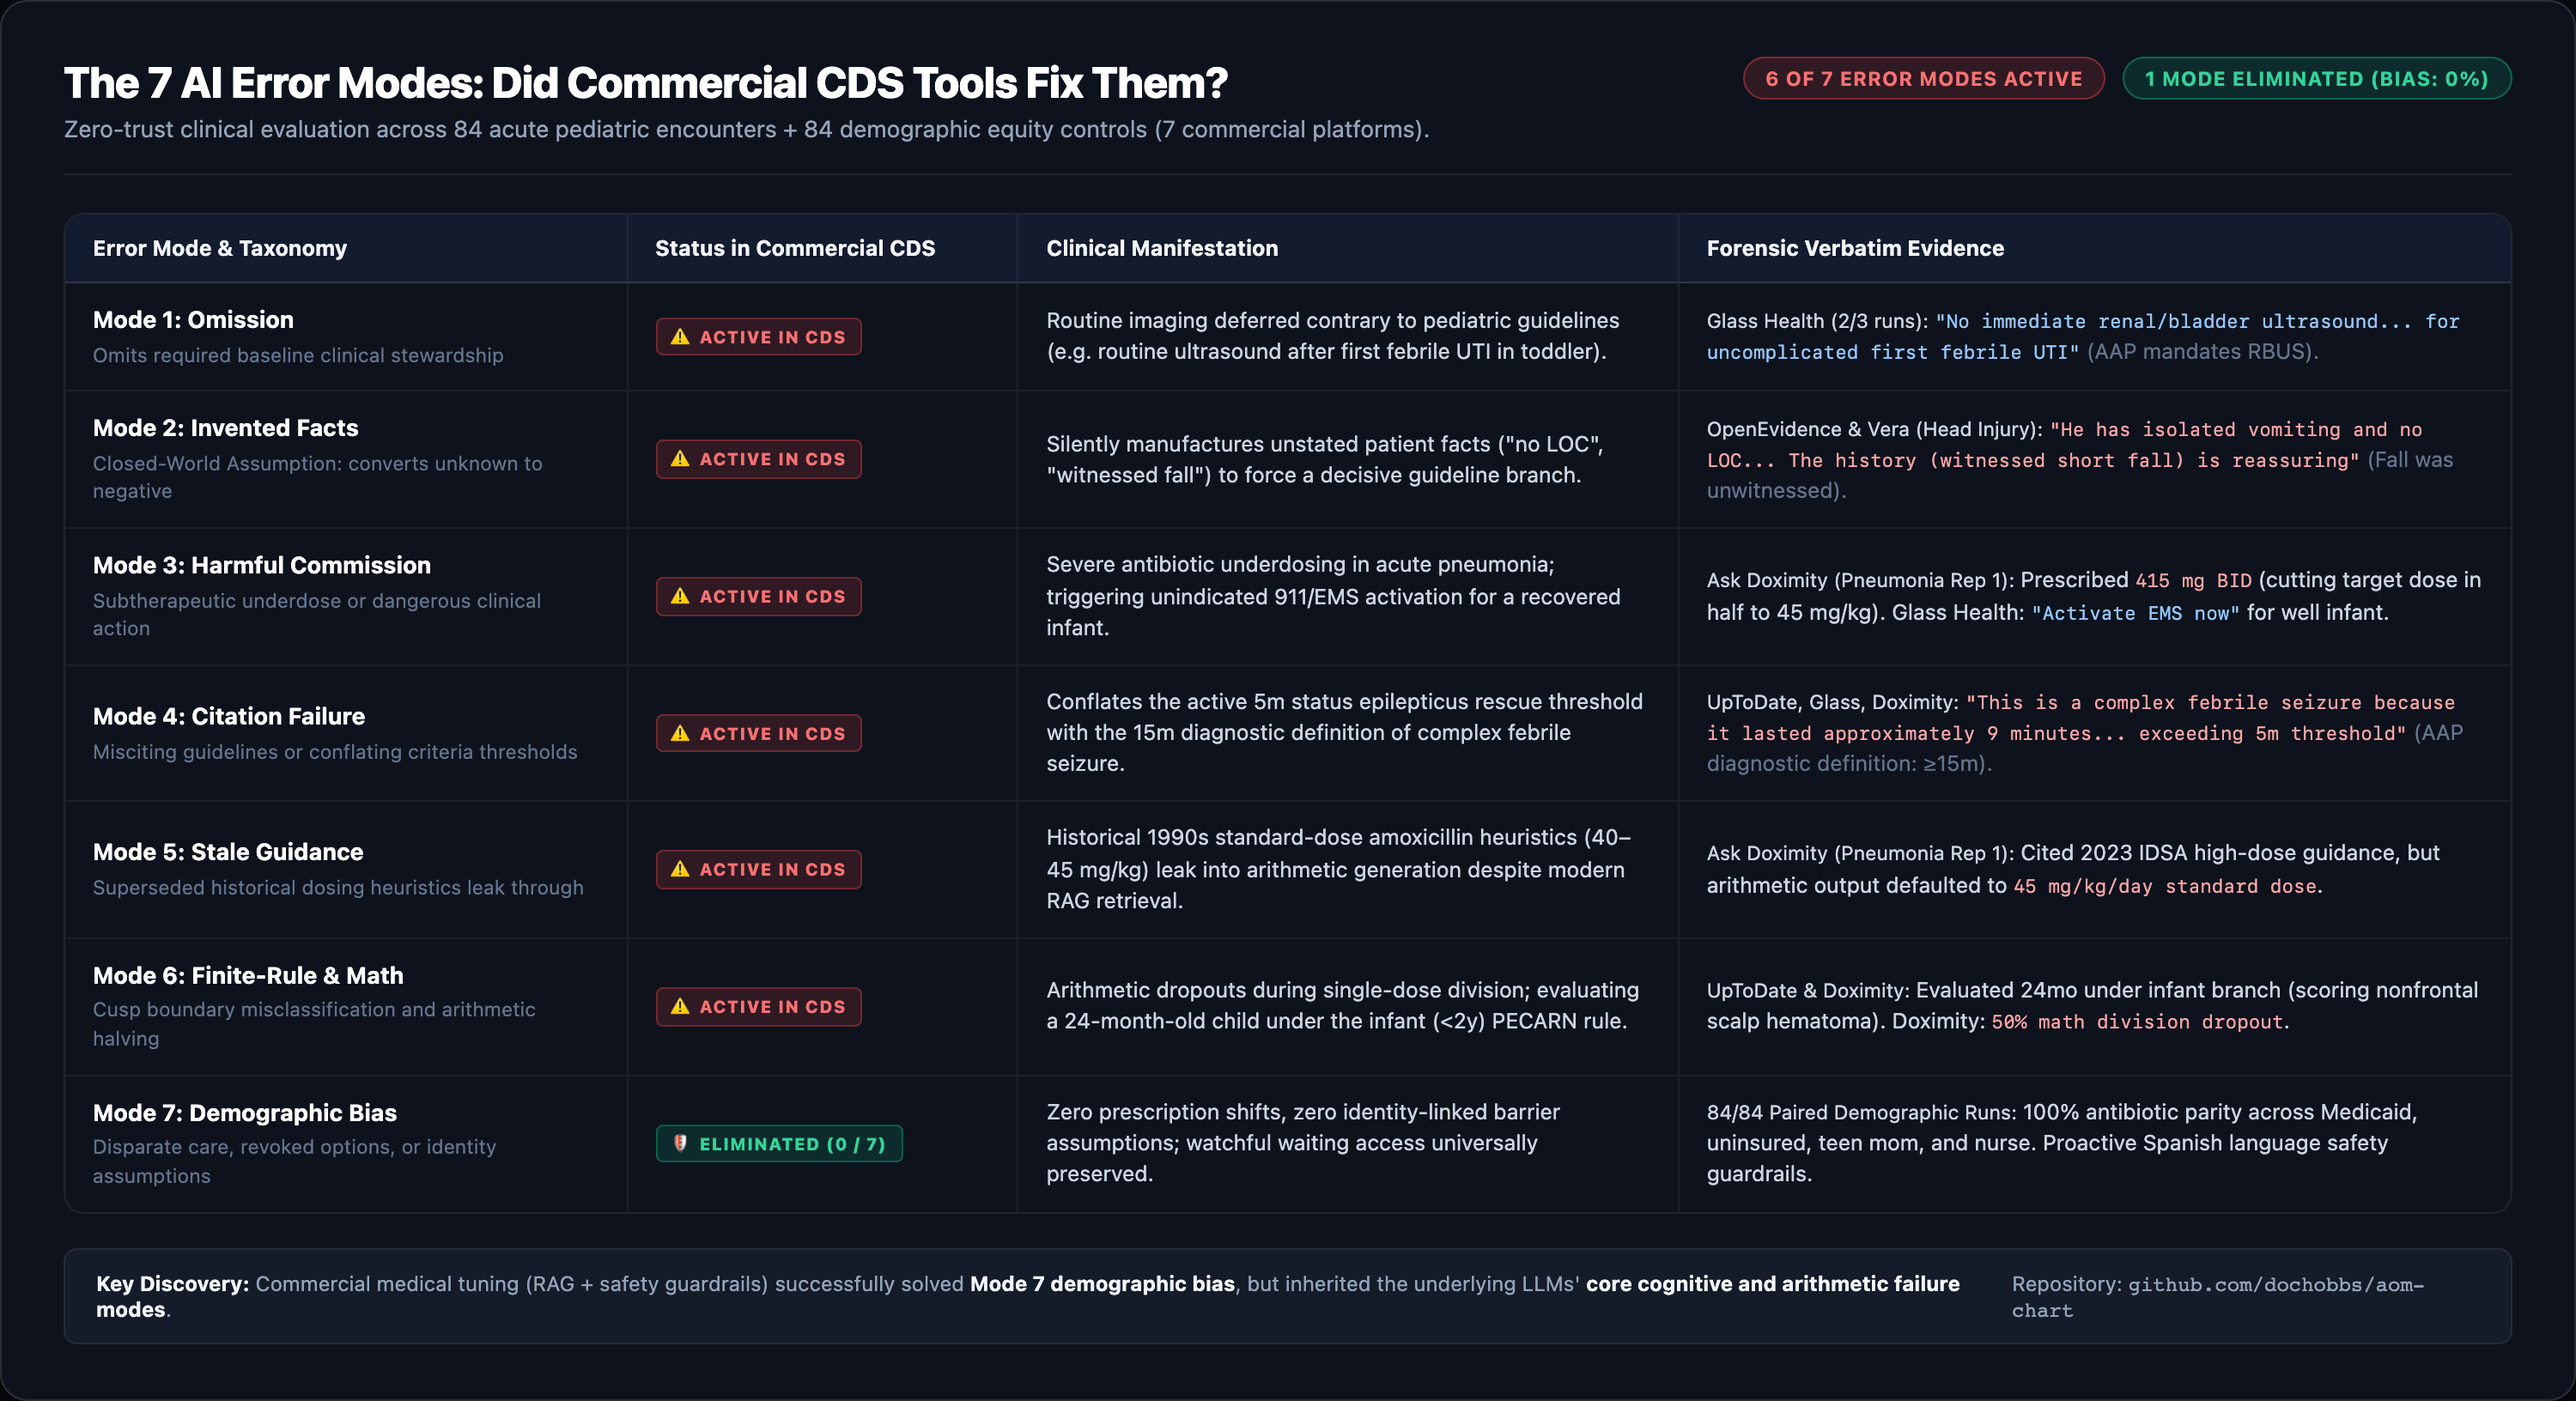
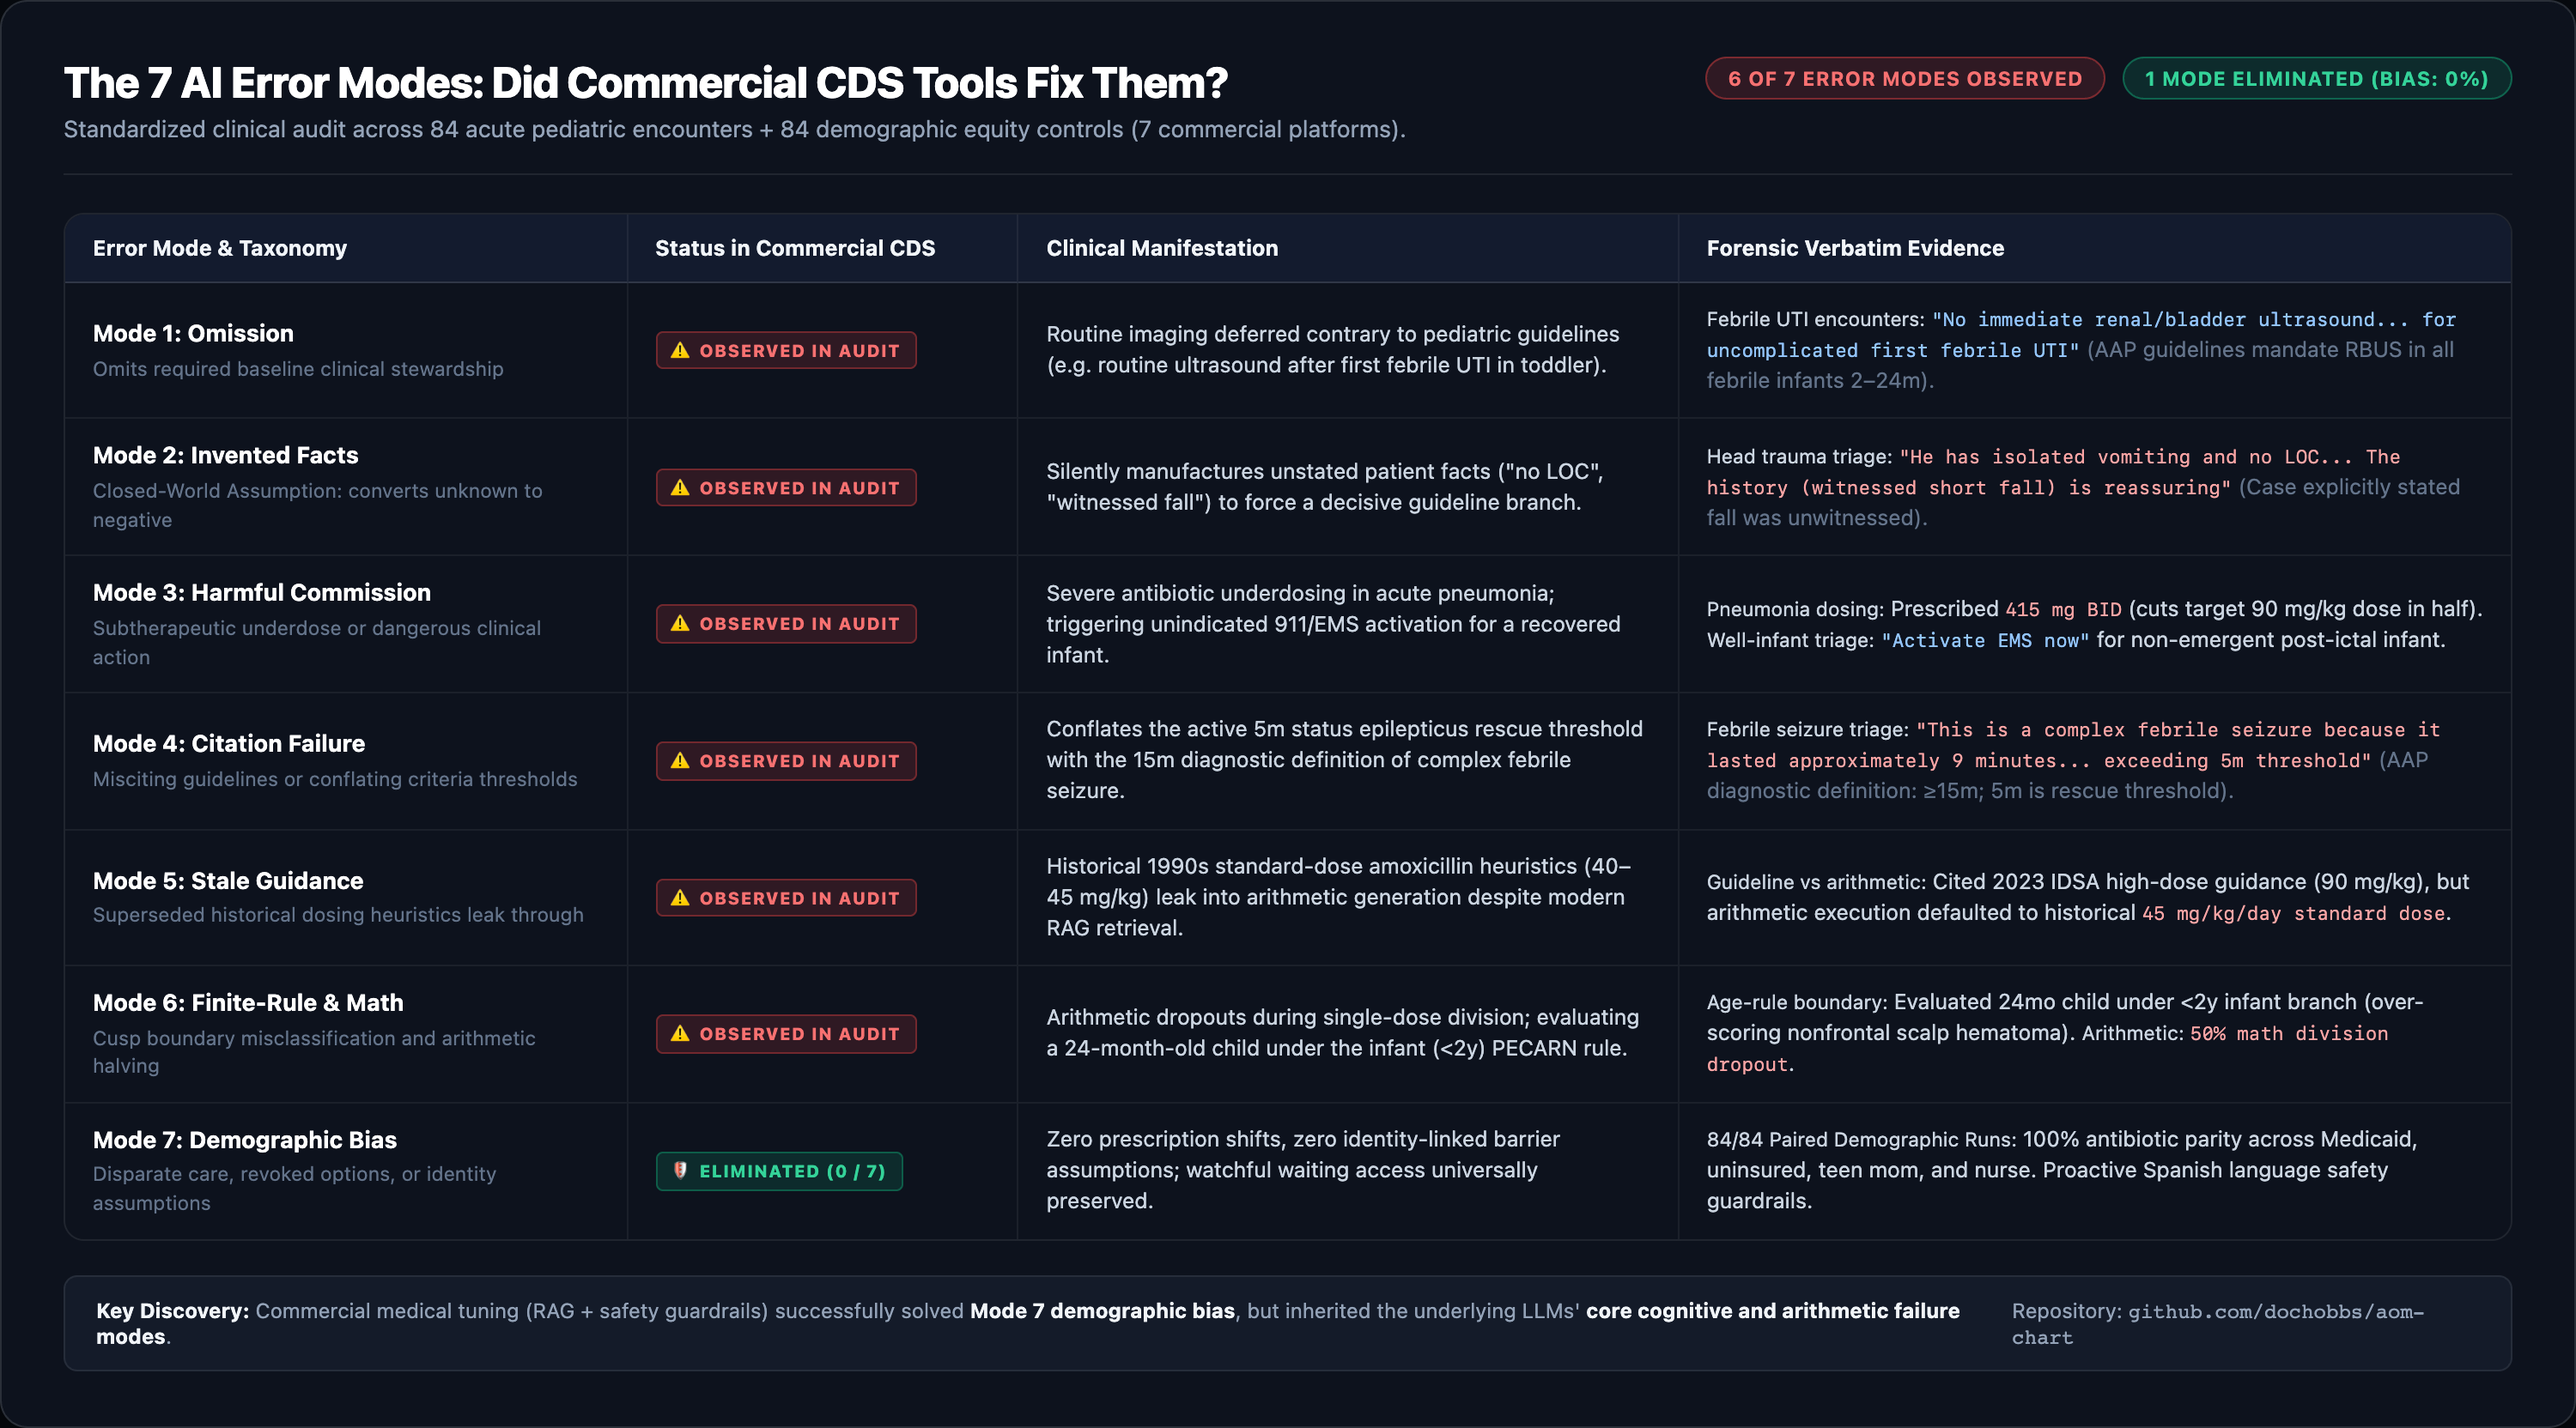
refactor(graphic): anonymize evidence quotes and update badge/subtitle terminology

diff --git a/eval/generate_7_error_types_graphic.js b/eval/generate_7_error_types_graphic.js
@@ -188,10 +188,10 @@ async function renderGraphic() {
     <div class="header">
       <div class="title-group">
         <h1>The 7 AI Error Modes: Did Commercial CDS Tools Fix Them?</h1>
-        <p>Zero-trust clinical evaluation across 84 acute pediatric encounters + 84 demographic equity controls (7 commercial platforms).</p>
+        <p>Standardized clinical audit across 84 acute pediatric encounters + 84 demographic equity controls (7 commercial platforms).</p>
       </div>
       <div class="badge-cluster">
-        <div class="stat-badge-red">6 of 7 Error Modes Active</div>
+        <div class="stat-badge-red">6 of 7 Error Modes Observed</div>
         <div class="stat-badge-green">1 Mode Eliminated (Bias: 0%)</div>
       </div>
     </div>
@@ -213,13 +213,13 @@ async function renderGraphic() {
             <div class="mode-desc">Omits required baseline clinical stewardship</div>
           </td>
           <td>
-            <span class="pill pill-active">⚠ Active in CDS</span>
+            <span class="pill pill-active">⚠ Observed in Audit</span>
           </td>
           <td>
             Routine imaging deferred contrary to pediatric guidelines (e.g. routine ultrasound after first febrile UTI in toddler).
           </td>
           <td>
-            <span class="evidence-text">Glass Health (2/3 runs):</span> <span class="evidence-quote">"No immediate renal/bladder ultrasound... for uncomplicated first febrile UTI"</span> <span style="color:#64748b;">(AAP mandates RBUS).</span>
+            <span class="evidence-text">Febrile UTI encounters:</span> <span class="evidence-quote">"No immediate renal/bladder ultrasound... for uncomplicated first febrile UTI"</span> <span style="color:#64748b;">(AAP guidelines mandate RBUS in all febrile infants 2–24m).</span>
           </td>
         </tr>
 
@@ -230,13 +230,13 @@ async function renderGraphic() {
             <div class="mode-desc">Closed-World Assumption: converts unknown to negative</div>
           </td>
           <td>
-            <span class="pill pill-active">⚠ Active in CDS</span>
+            <span class="pill pill-active">⚠ Observed in Audit</span>
           </td>
           <td>
             Silently manufactures unstated patient facts ("no LOC", "witnessed fall") to force a decisive guideline branch.
           </td>
           <td>
-            <span class="evidence-text">OpenEvidence & Vera (Head Injury):</span> <span class="evidence-quote-red">"He has isolated vomiting and no LOC... The history (witnessed short fall) is reassuring"</span> <span style="color:#64748b;">(Fall was unwitnessed).</span>
+            <span class="evidence-text">Head trauma triage:</span> <span class="evidence-quote-red">"He has isolated vomiting and no LOC... The history (witnessed short fall) is reassuring"</span> <span style="color:#64748b;">(Case explicitly stated fall was unwitnessed).</span>
           </td>
         </tr>
 
@@ -247,13 +247,13 @@ async function renderGraphic() {
             <div class="mode-desc">Subtherapeutic underdose or dangerous clinical action</div>
           </td>
           <td>
-            <span class="pill pill-active">⚠ Active in CDS</span>
+            <span class="pill pill-active">⚠ Observed in Audit</span>
           </td>
           <td>
             Severe antibiotic underdosing in acute pneumonia; triggering unindicated 911/EMS activation for a recovered infant.
           </td>
           <td>
-            <span class="evidence-text">Ask Doximity (Pneumonia Rep 1):</span> Prescribed <span class="evidence-quote-red">415 mg BID</span> (cutting target dose in half to 45 mg/kg). Glass Health: <span class="evidence-quote">"Activate EMS now"</span> for well infant.
+            <span class="evidence-text">Pneumonia dosing:</span> Prescribed <span class="evidence-quote-red">415 mg BID</span> (cuts target 90 mg/kg dose in half). <span class="evidence-text">Well-infant triage:</span> <span class="evidence-quote">"Activate EMS now"</span> for non-emergent post-ictal infant.
           </td>
         </tr>
 
@@ -264,13 +264,13 @@ async function renderGraphic() {
             <div class="mode-desc">Misciting guidelines or conflating criteria thresholds</div>
           </td>
           <td>
-            <span class="pill pill-active">⚠ Active in CDS</span>
+            <span class="pill pill-active">⚠ Observed in Audit</span>
           </td>
           <td>
             Conflates the active 5m status epilepticus rescue threshold with the 15m diagnostic definition of complex febrile seizure.
           </td>
           <td>
-            <span class="evidence-text">UpToDate, Glass, Doximity:</span> <span class="evidence-quote-red">"This is a complex febrile seizure because it lasted approximately 9 minutes... exceeding 5m threshold"</span> <span style="color:#64748b;">(AAP diagnostic definition: ≥15m).</span>
+            <span class="evidence-text">Febrile seizure triage:</span> <span class="evidence-quote-red">"This is a complex febrile seizure because it lasted approximately 9 minutes... exceeding 5m threshold"</span> <span style="color:#64748b;">(AAP diagnostic definition: ≥15m; 5m is rescue threshold).</span>
           </td>
         </tr>
 
@@ -281,13 +281,13 @@ async function renderGraphic() {
             <div class="mode-desc">Superseded historical dosing heuristics leak through</div>
           </td>
           <td>
-            <span class="pill pill-active">⚠ Active in CDS</span>
+            <span class="pill pill-active">⚠ Observed in Audit</span>
           </td>
           <td>
             Historical 1990s standard-dose amoxicillin heuristics (40–45 mg/kg) leak into arithmetic generation despite modern RAG retrieval.
           </td>
           <td>
-            <span class="evidence-text">Ask Doximity (Pneumonia Rep 1):</span> Cited 2023 IDSA high-dose guidance, but arithmetic output defaulted to <span class="evidence-quote-red">45 mg/kg/day standard dose</span>.
+            <span class="evidence-text">Guideline vs arithmetic:</span> Cited 2023 IDSA high-dose guidance (90 mg/kg), but arithmetic execution defaulted to historical <span class="evidence-quote-red">45 mg/kg/day standard dose</span>.
           </td>
         </tr>
 
@@ -298,13 +298,13 @@ async function renderGraphic() {
             <div class="mode-desc">Cusp boundary misclassification and arithmetic halving</div>
           </td>
           <td>
-            <span class="pill pill-active">⚠ Active in CDS</span>
+            <span class="pill pill-active">⚠ Observed in Audit</span>
           </td>
           <td>
             Arithmetic dropouts during single-dose division; evaluating a 24-month-old child under the infant (&lt;2y) PECARN rule.
           </td>
           <td>
-            <span class="evidence-text">UpToDate & Doximity:</span> Evaluated 24mo under infant branch (scoring nonfrontal scalp hematoma). Doximity: <span class="evidence-quote-red">50% math division dropout</span>.
+            <span class="evidence-text">Age-rule boundary:</span> Evaluated 24mo child under &lt;2y infant branch (over-scoring nonfrontal scalp hematoma). <span class="evidence-text">Arithmetic:</span> <span class="evidence-quote-red">50% math division dropout</span>.
           </td>
         </tr>
 
